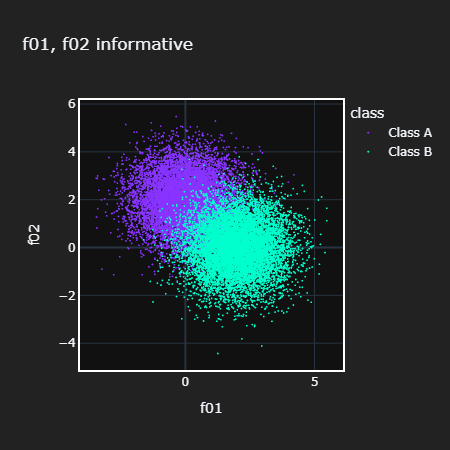
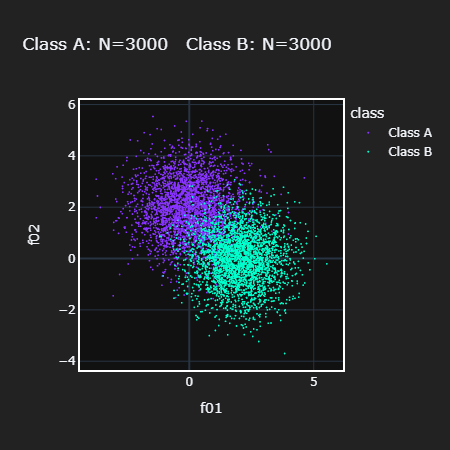
almost ready for next st deployment

diff --git a/st_page_01.py b/st_page_01.py
@@ -23,7 +23,7 @@ with c0:
     st.text("")
     st.text("Distribution class A")
 with c1:
-    n1 = st.number_input(label = "N",  min_value=100, max_value=10000, value=1000, step=100, key = "k001")
+    n1 = st.number_input(label = "N",  min_value=100, max_value=10000, value=3000, step=100, key = "k001")
 with c2:
     mu1x = st.number_input(label = "Mean X", min_value=-10.0, max_value=10.0, value=0.0,  key = "k002")
 with c3:
@@ -33,7 +33,7 @@ with c4:
 with c5:
     std1y = st.number_input(label = "Stdev Y", min_value=0.1, max_value=10.0, value=1.0,  key = "k005")
 with c6:
-    corr1 = st.number_input(label = "Correlation", min_value=-1.0, max_value=+1.0, value=0.8,  key = "k006")
+    corr1 = st.number_input(label = "Correlation", min_value=-1.0, max_value=+1.0, value=0.0,  key = "k006")
 
 c0, c1, c2, c3, c4, c5, c6, = st.columns(7)
 with c0:
@@ -47,11 +47,11 @@ with c2:
 with c3:
     mu2y = st.number_input(label = "Mean Y", min_value=-10.0, max_value=10.0, value=0.0, label_visibility ="hidden",key = "k009")
 with c4:
-    std2x = st.number_input(label = "Stdev X", min_value=0.1, max_value=10.0, value=1.0, label_visibility ="hidden",key = "k010")
+    std2x = st.number_input(label = "Stdev X", min_value=0.1, max_value=10.0, value=0.1, label_visibility ="hidden",key = "k010")
 with c5:
     std2y = st.number_input(label = "Stdev Y", min_value=0.1, max_value=10.0, value=1.0, label_visibility ="hidden",key = "k011")
 with c6:
-    corr2 = st.number_input(label = "Correlation", min_value=-1.0, max_value=+1.0, value=-0.8, label_visibility ="hidden",key = "k012")
+    corr2 = st.number_input(label = "Correlation", min_value=-1.0, max_value=+1.0, value=-0.0, label_visibility ="hidden",key = "k012")
 
 
 
@@ -65,27 +65,20 @@ with c6:
 
 st.divider()
 
-c0, c_1, c1, c_2, c2,  = st.columns([0.30, 0.03, 0.10, 0.03,  0.40])
+c0, c1, c2,  = st.columns([0.30, 0.10, 0.40], vertical_alignment="center")
 
 with c0:  
-    figs_li = plot_scenarios(scenarios_di, random_seed, width = 450, height = 450,)
+    figs_li = plot_scenarios(scenarios_di, random_seed, width = 500, height = 450,)
     ss["fig01"] = figs_li[0]        
     st.plotly_chart(ss["fig01"], use_container_width=False, key='k_fig01')
 
-with c_1: 
-    st.title("")
-    st.title("")
-    st.title("")
-    st.image(image = "./icons/arrow.png", width=30, use_container_width=False)
-
 with c1:  
-    st.title("")   
     sttr = st.text_input("nb noisy features (comma sep)", "0, 5, 25, 50, 100")
     nb_noisy_features = sttr.split(",")
     nb_noisy_features = [int(a) for a in nb_noisy_features]
     st.text(nb_noisy_features)
-    nb_trees = st.number_input(label = "nb trees",  min_value=1, max_value=500, value=30, step=1,)
-    rfo_max_features = st.number_input(label = "max features",  min_value=1, max_value=100, value=1, step=1)
+    nb_trees = st.number_input(label = "RF nb trees",  min_value=1, max_value=500, value=30, step=1,)
+    rfo_max_features = st.number_input(label = "RF max features",  min_value=1, max_value=100, value=1, step=1)
 
     # compute the simulation 
     with st.form("B", border=False):
@@ -95,12 +88,6 @@ with c1:
             ss["fig02"] = plot_performance_vs_n_features(resu02, width = 600, height = 450)
             ss["fig02"].update_layout(margin=dict(l=20, r=20, t=100, b=20),)
             ss["fig02"].update_layout(yaxis_range=[0.49, +1.01])
-
-with c_2: 
-    st.title("")
-    st.title("")
-    st.title("")
-    st.image(image = "./icons/arrow.png", width=30, use_container_width=False)
 
 with c2:  
     st.plotly_chart(ss["fig02"], use_container_width=False, key='k_fig02')

diff --git a/main.py b/main.py
@@ -1,6 +1,6 @@
 #--------------------             
 # Author : Serge Zaugg
-# Description : Create synthetic datasets, train models, assess performance
+# Description : Create datasets, train models, assess performance
 #--------------------
 
 from utils import plot_scenarios, evaluate_scenarios_rfo, evaluate_scenarios_logit, plot_performance_vs_n_features
@@ -8,7 +8,7 @@ import os
 
 random_seed = 557
 path_save_figures = "./saved_figures_temp"
-N = 2000
+N = 3000
 
 # Define several scenarios 
 scenarios_di = { 
@@ -47,7 +47,7 @@ scenarios_di = {
 # Prepare scenario figures  
 figs_li = plot_scenarios(scenarios_di, random_seed)
 
-# Evaluate the scenarios (QUICK)
+# # Evaluate the scenarios (QUICK)
 # nb_noisy_features = [0, 5, 25, 50, 100, 500]
 # nb_trees = 10
 
@@ -58,19 +58,19 @@ nb_trees = 50
 resu01 = evaluate_scenarios_rfo(rfo_max_features =  1, sce = scenarios_di, nb_noisy_features = nb_noisy_features,  ntrees = nb_trees, seed = random_seed)
 resu02 = evaluate_scenarios_rfo(rfo_max_features = 10, sce = scenarios_di, nb_noisy_features = nb_noisy_features,  ntrees = nb_trees, seed = random_seed)
 resu03 = evaluate_scenarios_rfo(rfo_max_features = 25, sce = scenarios_di, nb_noisy_features = nb_noisy_features,  ntrees = nb_trees, seed = random_seed)
-resu04 = evaluate_scenarios_logit(logit_c_param =  0.1, sce = scenarios_di, nb_noisy_features = nb_noisy_features, seed = random_seed)
-resu05 = evaluate_scenarios_logit(logit_c_param =  1.0, sce = scenarios_di, nb_noisy_features = nb_noisy_features, seed = random_seed)
-resu06 = evaluate_scenarios_logit(logit_c_param = 10.0, sce = scenarios_di, nb_noisy_features = nb_noisy_features, seed = random_seed)
+resu04 = evaluate_scenarios_logit(logit_c_param =   0.01, sce = scenarios_di, nb_noisy_features = nb_noisy_features, seed = random_seed)
+resu05 = evaluate_scenarios_logit(logit_c_param =   1.00, sce = scenarios_di, nb_noisy_features = nb_noisy_features, seed = random_seed)
+resu06 = evaluate_scenarios_logit(logit_c_param = 100.00, sce = scenarios_di, nb_noisy_features = nb_noisy_features, seed = random_seed)
 
 # Prepare results figures 
-fig01 = plot_performance_vs_n_features(resu01)
-fig02 = plot_performance_vs_n_features(resu02)
-fig03 = plot_performance_vs_n_features(resu03)
-fig04 = plot_performance_vs_n_features(resu04)
-fig05 = plot_performance_vs_n_features(resu05)
-fig06 = plot_performance_vs_n_features(resu06)
+fig01 = plot_performance_vs_n_features(resu01, width = 570, height = 750)
+fig02 = plot_performance_vs_n_features(resu02, width = 570, height = 750)
+fig03 = plot_performance_vs_n_features(resu03, width = 570, height = 750)
+fig04 = plot_performance_vs_n_features(resu04, width = 570, height = 750)
+fig05 = plot_performance_vs_n_features(resu05, width = 570, height = 750)
+fig06 = plot_performance_vs_n_features(resu06, width = 570, height = 750)
 
-# Save all figures later re-import 
+# Save all figures for later re-import 
 for i,f in enumerate(figs_li):
     f.write_image(os.path.join(path_save_figures, 'scenario' + str(i) + '.png' ) )  
 fig01.write_image(os.path.join(path_save_figures, "results_01.png"))

diff --git a/readme.md b/readme.md
@@ -15,7 +15,7 @@ The scenarios assessed here are artificial and by no way representative of situa
 Yet, they are great way to didactically illustrate the subtle interactions between data and models.
 
 **IN-DEPTH ILLUSTRATION:**
-See link to Streamlit 
+See [link to interactive dashboard](https://purenoisefeatures.streamlit.app/) 
 
 ### Dependencies / Intallation
 * Developed under Python 3.12.8
